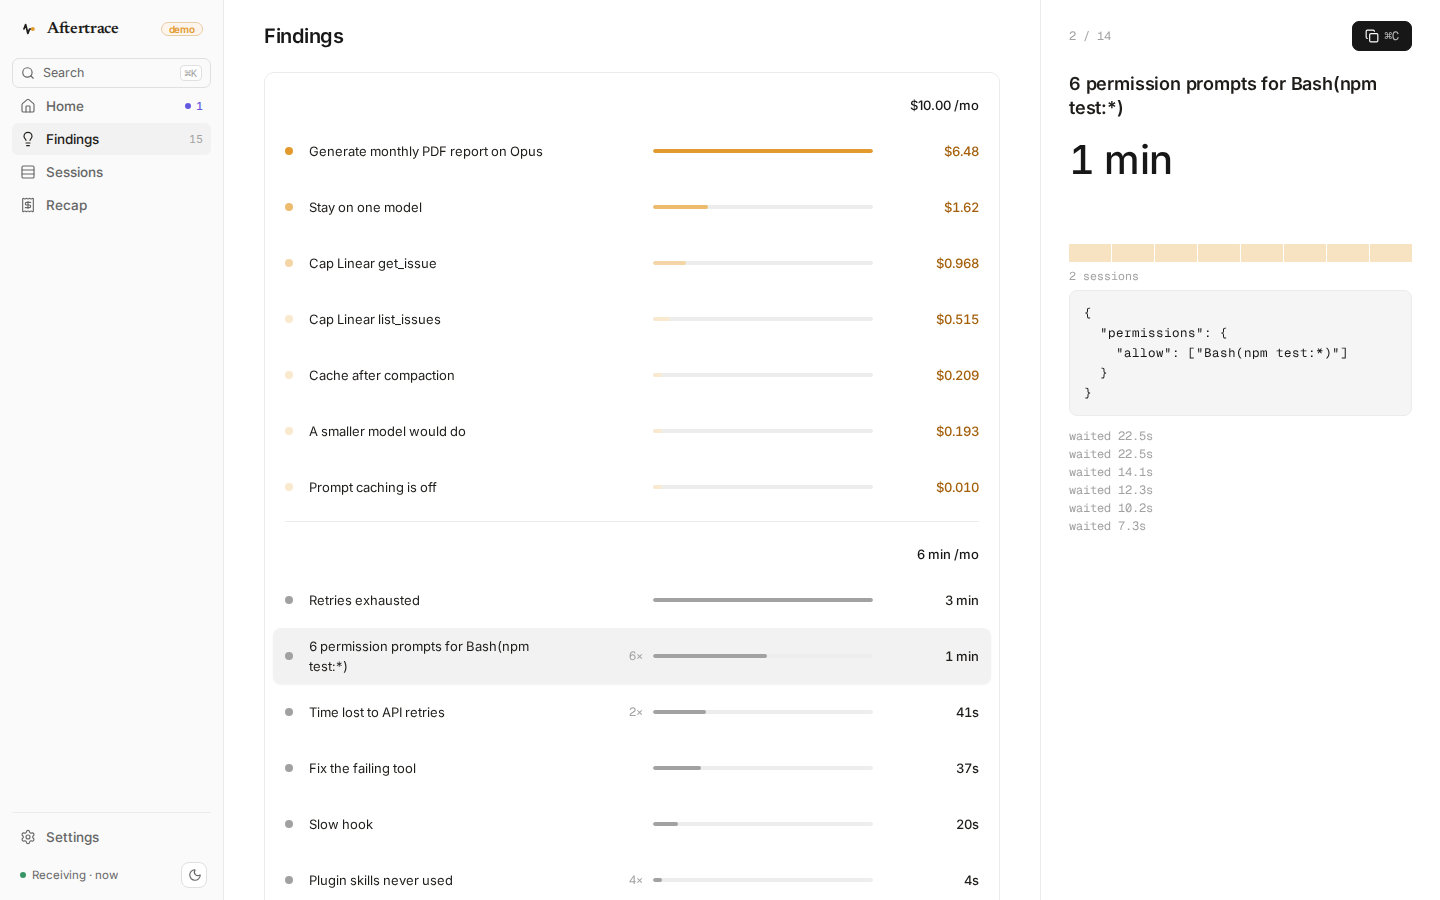
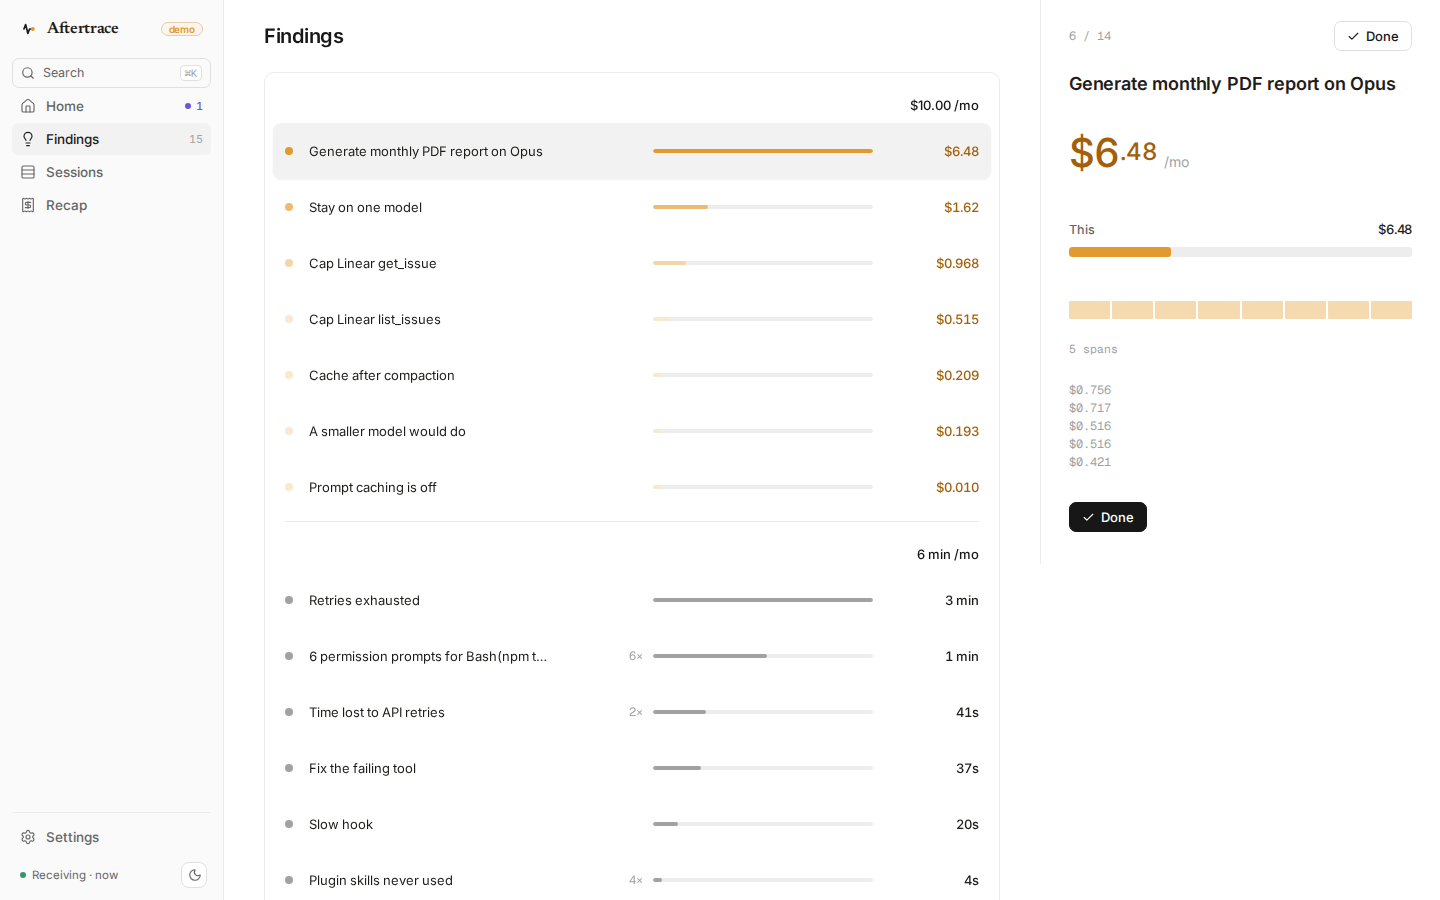
Stop Findings titles wrapping and the pane eating its own scroll
List rows are a fixed 56px with a single truncated line. The detail
column no longer nests a scroller inside the page, leftover .top chrome
no longer draws a rule through “This”, and the session ticks are real
bars instead of empty italic glyphs.

Changed region(s): [[0.7188, 0.2489, 1.0, 0.5911], [0.7188, 0.0, 1.0, 0.2178], [0.2188, 0.7156, 0.375, 0.7467]]

diff --git a/web/src/styles/v4.css b/web/src/styles/v4.css
@@ -277,7 +277,7 @@
   overflow: visible;
   background: transparent;
 }
-.v4.split .v4-l { flex: 1; padding: 0 var(--page-x) 24px; min-width: 0; overflow: auto; background: transparent; }
+.v4.split .v4-l { flex: 1; padding: 0 var(--page-x) 24px; min-width: 0; overflow: visible; background: transparent; }
 .v4-pane {
   flex: none;
   border-left: 1px solid var(--line);
@@ -288,7 +288,10 @@
   width: 400px;
   max-width: 400px;
   min-width: 400px;
-  overflow: auto;
+  overflow: visible;
+  align-self: flex-start;
+  position: sticky;
+  top: 0;
 }
 .v4-pane .v4-ph { height: 72px; }
 .v4-pane h2 { font: 600 18px/24px var(--sans); letter-spacing: -0.01em; margin: 0; }
@@ -331,6 +334,13 @@
 }
 .v4-fr .trk { height: 4px; background: var(--bar-2); border-radius: 2px; overflow: hidden; }
 .v4-fr .trk i { display: block; height: 100%; border-radius: 2px; }
+.v4-fr .nm {
+  min-width: 0;
+  overflow: hidden;
+  text-overflow: ellipsis;
+  white-space: nowrap;
+  line-height: 20px;
+}
 .v4-fr .v { text-align: right; font-weight: 500; }
 .v4-fr.sel { background: var(--sel); }
 .v4-fr.resolved { opacity: 0.55; }
@@ -358,16 +368,28 @@
   background: repeating-linear-gradient(-45deg, var(--amber) 0 1.5px, transparent 1.5px 5px);
   opacity: 0.8;
 }
-.v4-pane .v4-big { font-size: 40px; line-height: 44px; color: var(--amber-ink); margin-top: 18px; }
+.v4-pane .v4-big { font-size: 40px; line-height: 44px; color: var(--amber-ink); margin-top: 18px; display: flex; align-items: baseline; gap: 6px; }
 .v4-pane .v4-big.neutral { color: var(--t1); }
-.v4-pane .v4-big small { font: 400 14px/1 var(--sans); color: var(--t3); letter-spacing: 0; margin-left: 6px; }
-.v4-cmp { margin-top: 32px; display: flex; flex-direction: column; gap: 20px; }
-.v4-cmp .r .top { display: flex; justify-content: space-between; align-items: center; font-size: 13px; margin-bottom: 9px; }
-.v4-cmp .b { height: 10px; border-radius: 3px; display: flex; gap: 2px; }
-.v4-cmp .b i { display: block; height: 100%; border-radius: 3px; }
+.v4-pane .v4-big small { font: 400 14px/1 var(--sans); color: var(--t3); letter-spacing: 0; margin-left: 0; }
+.v4-pane .v4-big .v4-cents { vertical-align: 0.28em; }
+.v4-cmp { margin-top: 28px; display: flex; flex-direction: column; gap: 20px; padding-top: 0; border: 0; }
+.v4-cmp .r { display: flex; flex-direction: column; gap: 8px; text-align: left; }
+.v4-cmp-hd {
+  display: flex;
+  justify-content: space-between;
+  align-items: baseline;
+  font-size: 13px;
+  height: auto;
+  padding: 0;
+  border: 0;
+  position: static;
+  background: transparent;
+}
+.v4-cmp .b { height: 10px; border-radius: 3px; display: flex; background: var(--bar-2); overflow: hidden; }
+.v4-cmp .b i { display: block; height: 100%; border-radius: 3px; background: var(--amber); }
 .v4-cmp .x { font: 400 11.5px/1 var(--mono); color: var(--t3); margin-top: 8px; display: flex; justify-content: space-between; }
-.v4-strip { margin-top: 30px; display: flex; gap: 1px; height: 18px; align-items: center; }
-.v4-strip i { flex: 1; height: 100%; border-radius: 1px; background: var(--a3); opacity: 0.7; }
+.v4-strip { margin-top: 28px; display: flex; gap: 2px; height: 18px; align-items: stretch; }
+.v4-strip i { display: block; flex: 1 1 0; min-width: 3px; height: 18px; border-radius: 1px; background: var(--a3); opacity: 0.9; }
 .v4-sl { display: flex; justify-content: space-between; margin-top: 8px; font: 400 11.5px/1 var(--mono); color: var(--t3); }
 .v4-code {
   margin-top: 30px;
@@ -652,12 +674,22 @@
 .v4 .v4-fr.resolved,
 .v4 .v4-fr.frow.quiet.resolved { opacity: 0.55; color: inherit; background: transparent; }
 .v4-pane > .frow.hero {
-  display: block;
+  display: flex;
+  flex-direction: column;
   border: 0;
-  padding: 0;
+  padding: 0 0 8px;
   background: transparent;
   margin: 0;
   box-shadow: none;
+  min-width: 0;
+  overflow: visible;
+}
+.findings-page.v4.split { align-items: flex-start; }
+.findings-page .v4-pane pre,
+.findings-page .v4-pane .v4-code {
+  max-height: none;
+  overflow: visible;
+  white-space: pre-wrap;
 }
 .v4-pane .evs {
   margin-top: 14px;

diff --git a/web/e2e/layout.spec.ts b/web/e2e/layout.spec.ts
@@ -109,6 +109,15 @@ test.describe("shared app layout", () => {
     await expect(track).toBeVisible()
     const trackW = await track.evaluate((el) => (el as HTMLElement).getBoundingClientRect().width)
     expect(trackW).toBeGreaterThan(40)
+    const findRowH = await page.locator(".v4-fr").first().evaluate((el) => (el as HTMLElement).getBoundingClientRect().height)
+    expect(findRowH).toBeGreaterThanOrEqual(54)
+    expect(findRowH).toBeLessThanOrEqual(58)
+    const nm = await page.locator(".v4-fr .nm").first().evaluate((el) => getComputedStyle(el).whiteSpace)
+    expect(nm).toBe("nowrap")
+    const paneOverflow = await page.locator(".v4-pane").evaluate((el) => getComputedStyle(el).overflowY)
+    expect(paneOverflow).toBe("visible")
+    const stripH = await page.locator(".v4-strip").evaluate((el) => (el as HTMLElement).getBoundingClientRect().height)
+    expect(stripH).toBeGreaterThanOrEqual(16)
 
     await page.goto("/#/")
     const homeX = await page.locator(".v4-ph h1").evaluate((el) => el.getBoundingClientRect().x)

diff --git a/web/e2e/screenshots.spec.ts b/web/e2e/screenshots.spec.ts
@@ -243,6 +243,12 @@ test("findings", async ({ page }) => {
   for (const t of titles) counts.set(t, (counts.get(t) || 0) + 1)
   const dupes = [...counts.entries()].filter(([, n]) => n > 1).map(([t]) => t)
   expect(dupes, `duplicate finding titles: ${dupes.join(", ")}`).toEqual([])
+  await page.locator(".v4-fr").filter({ hasText: "PDF report" }).click()
+  await expect(page.locator(".v4-pane .v4-lbl")).toHaveText("This")
+  await expect(page.locator(".v4-pane .v4-big")).toContainText("/mo")
+  await expect(page.locator(".v4-strip i").first()).toBeVisible()
+  const stripH = await page.locator(".v4-strip").evaluate((el) => (el as HTMLElement).getBoundingClientRect().height)
+  expect(stripH).toBeGreaterThanOrEqual(16)
   await shot(page, "findings", "light")
   await shot(page, "findings", "dark")
 })

diff --git a/web/src/pages/FindingsPage.tsx b/web/src/pages/FindingsPage.tsx
@@ -292,8 +292,8 @@ function FindingPane({
         <div className="v4-cmp">
           {money && spend > 0 && (
             <div className="r">
-              <div className="top"><span className="v4-lbl">This</span><span className="v4-money">{usd(monthly)}</span></div>
-              <div className="b"><i className="v4-hatch" style={{ width: `${Math.min(100, (monthly / Math.max(spend, monthly)) * 100)}%` }} /></div>
+              <div className="v4-cmp-hd"><span className="v4-lbl">This</span><span className="v4-money">{usd(monthly)}</span></div>
+              <div className="b"><i style={{ width: `${Math.min(100, (monthly / Math.max(spend, monthly)) * 100)}%` }} /></div>
             </div>
           )}
         </div>
